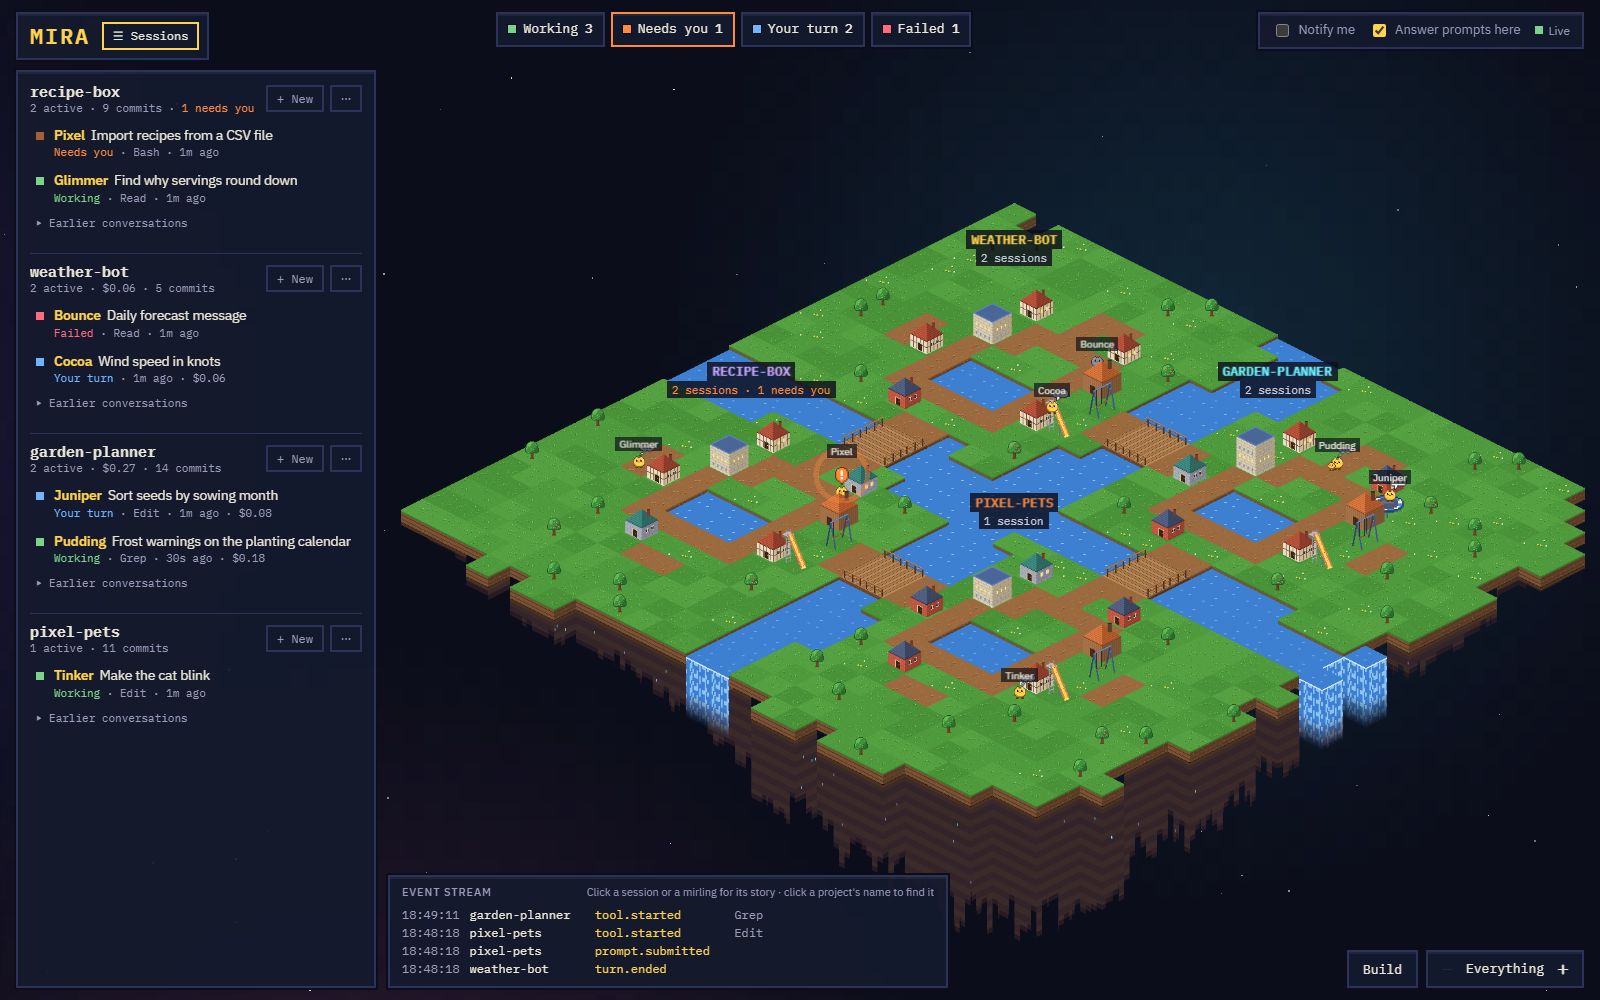
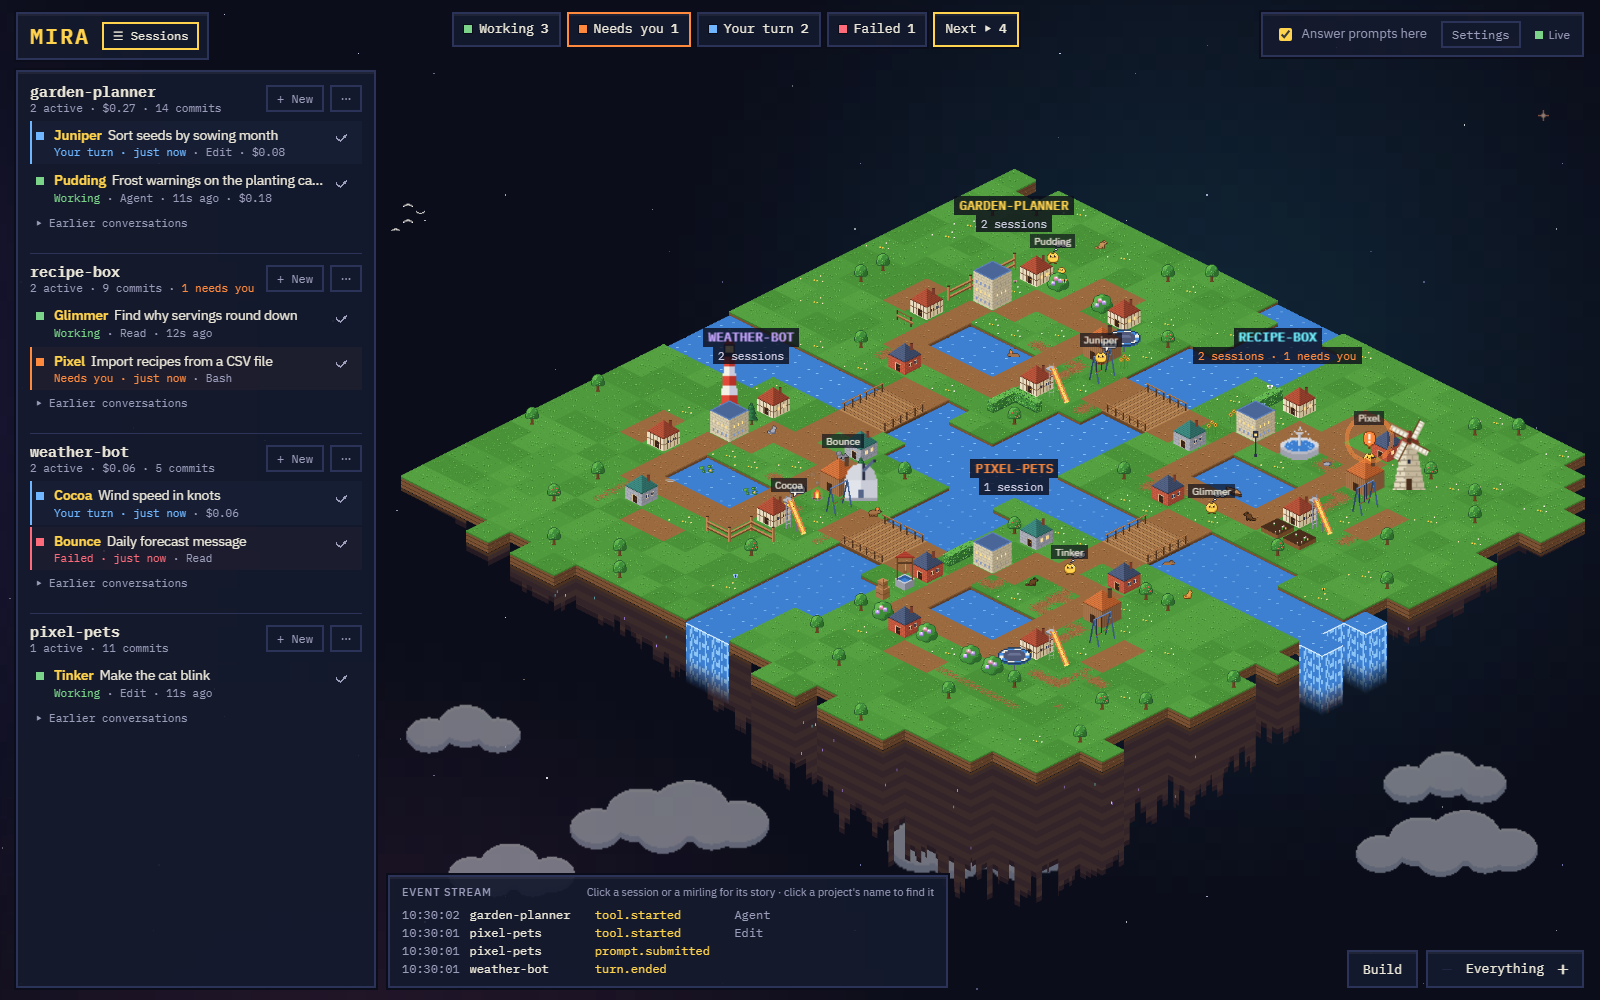
Retake the README's pictures, add one of build mode, and explain how to make the island yours

diff --git a/README.md b/README.md
@@ -18,7 +18,7 @@ Mira watches every Claude Code session on your machine and draws them as mirling
 - **Stepping in.** Answer permission prompts from Mira, send a running session a message, start a new session in VS Code with your prompt typed in, carry a session on in a terminal inside the page, or open it in VS Code.
 - **Notifications** when a session needs you, fails, or finishes a long turn, and in the app a pop-up in the middle of the screen and a red badge on its taskbar button. The pop-up shows the session's last reply with a box and quick replies to answer it, or what it asks to run with Allow and Deny, so you can answer without leaving what you're in. A session calling for you glows on the board until you read it, with how long it has waited, Alt+N takes you to the next one, and you can tick any one off. Settings switch the notifications, the pop-up and the taskbar flash on or off, each on its own, and add a chime if you'd like one.
 - **Two sessions, one file.** When two live sessions edit the same file, Mira marks both and can tell each about the other before one undoes the other's work.
-- **Build mode** to make the island yours: plants and flowering bushes, hedges and fences, decorations, paths, ponds, boats, swings, slides and trampolines, dogs, cats and capybaras that wander about, and landmarks you earn with time and work: a windmill, a fountain, an observatory, a lighthouse and a hot-air balloon.
+- **[Build mode](#making-the-island-yours)** to make the island yours: plants and flowering bushes, hedges and fences, decorations, paths, ponds, boats, swings, slides and trampolines, dogs, cats and capybaras that wander about, and landmarks you earn with time and work: a windmill, a fountain, an observatory, a lighthouse and a hot-air balloon.
 - **Project groups**, so related repos share one section.
 - **A desktop app**: a window of its own to pin to the taskbar.
 - **Light on your machine.** Settings show what Mira costs, its CPU and memory, part by part, and the island slows down while Mira isn't in front.
@@ -43,6 +43,24 @@ npm run app      # optional: Mira in a window of its own
 ```
 
 Then add Mira's hooks to your Claude Code user settings, `~/.claude/settings.json`, so every repo reports without committing anything. [hub/README.md](hub/README.md) has the hooks, the settings in `~/.mira/config.json`, running the hub in the background, and the rest of what the hub does. The event contract is in [contracts/](contracts/README.md).
+
+## Making the island yours
+
+The island is yours to arrange. Press **Build** at the bottom right of the page, and a palette opens beside the island.
+
+![Build mode open beside the island: a palette of plants, decorations, landmarks and more, with a dog, a cat and a capybara wandering a section with flowering bushes, a trampoline and tracks worn into the grass](docs/build.png)
+
+1. **Pick something** from the palette: Plants, Decor, Water, Landmarks, Animals, Play or Ground.
+2. **Click a tile** to place it. It stays picked, so keep clicking to place more. Fences and hedges join up with their neighbours.
+3. **Change what's there** with Arrange: Move a building or a play piece by clicking it and then a free tile, Restyle a house, or Remove anything you've placed, the trees that were already there, or an animal, wherever it has wandered.
+4. **Press Done**, or Escape, when you're finished. Changes are saved as you make them, and Undo takes them back.
+
+Scroll or use − and + at the bottom right to zoom in, and drag to move around.
+
+- You can build anywhere on the island: a project's own ground, its shore, the coast and the stream banks. Boats and lily pads go on the water, Pond digs a new pond, and path, grass or flowers fill one back in.
+- Workshops, libraries and houses stand for real work, so you can move them but never add or remove them.
+- Mira turns down a change that would leave a building or a play piece with no way in, and says why.
+- Landmarks are earned. The palette greys out the ones you haven't reached yet and shows how far along you are.
 
 ## Other agents
 
